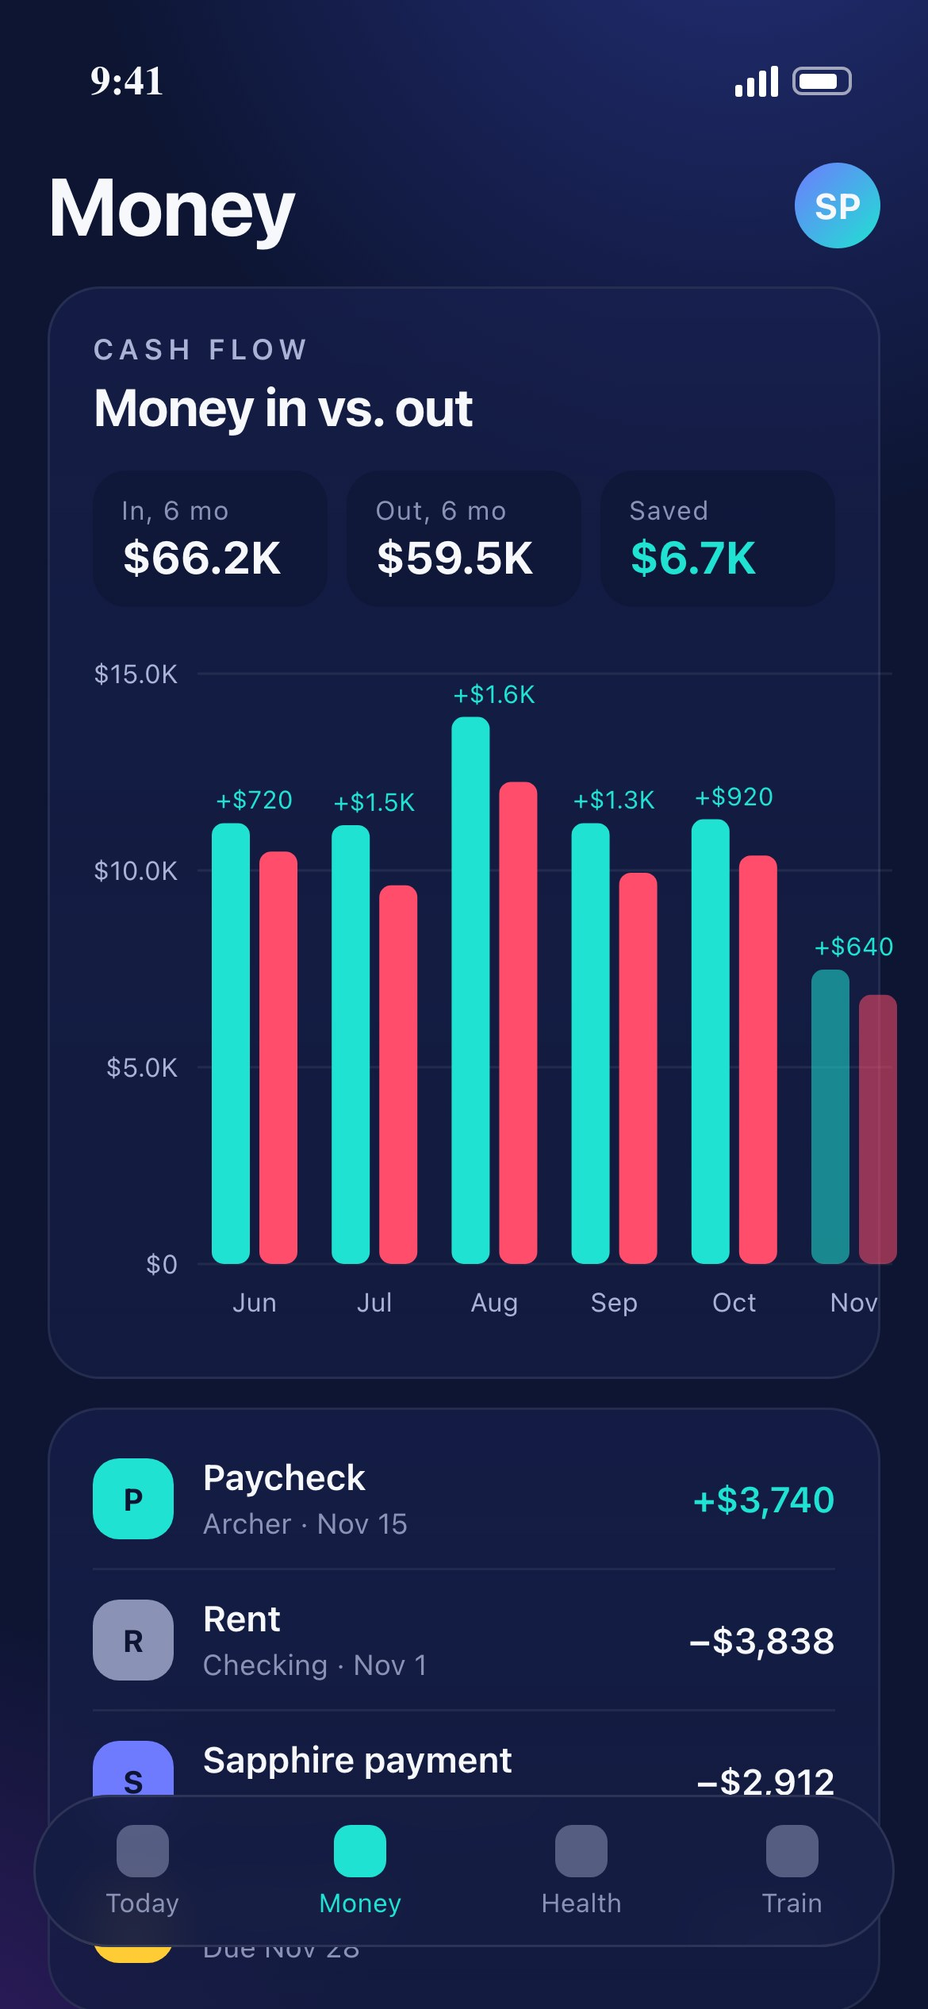
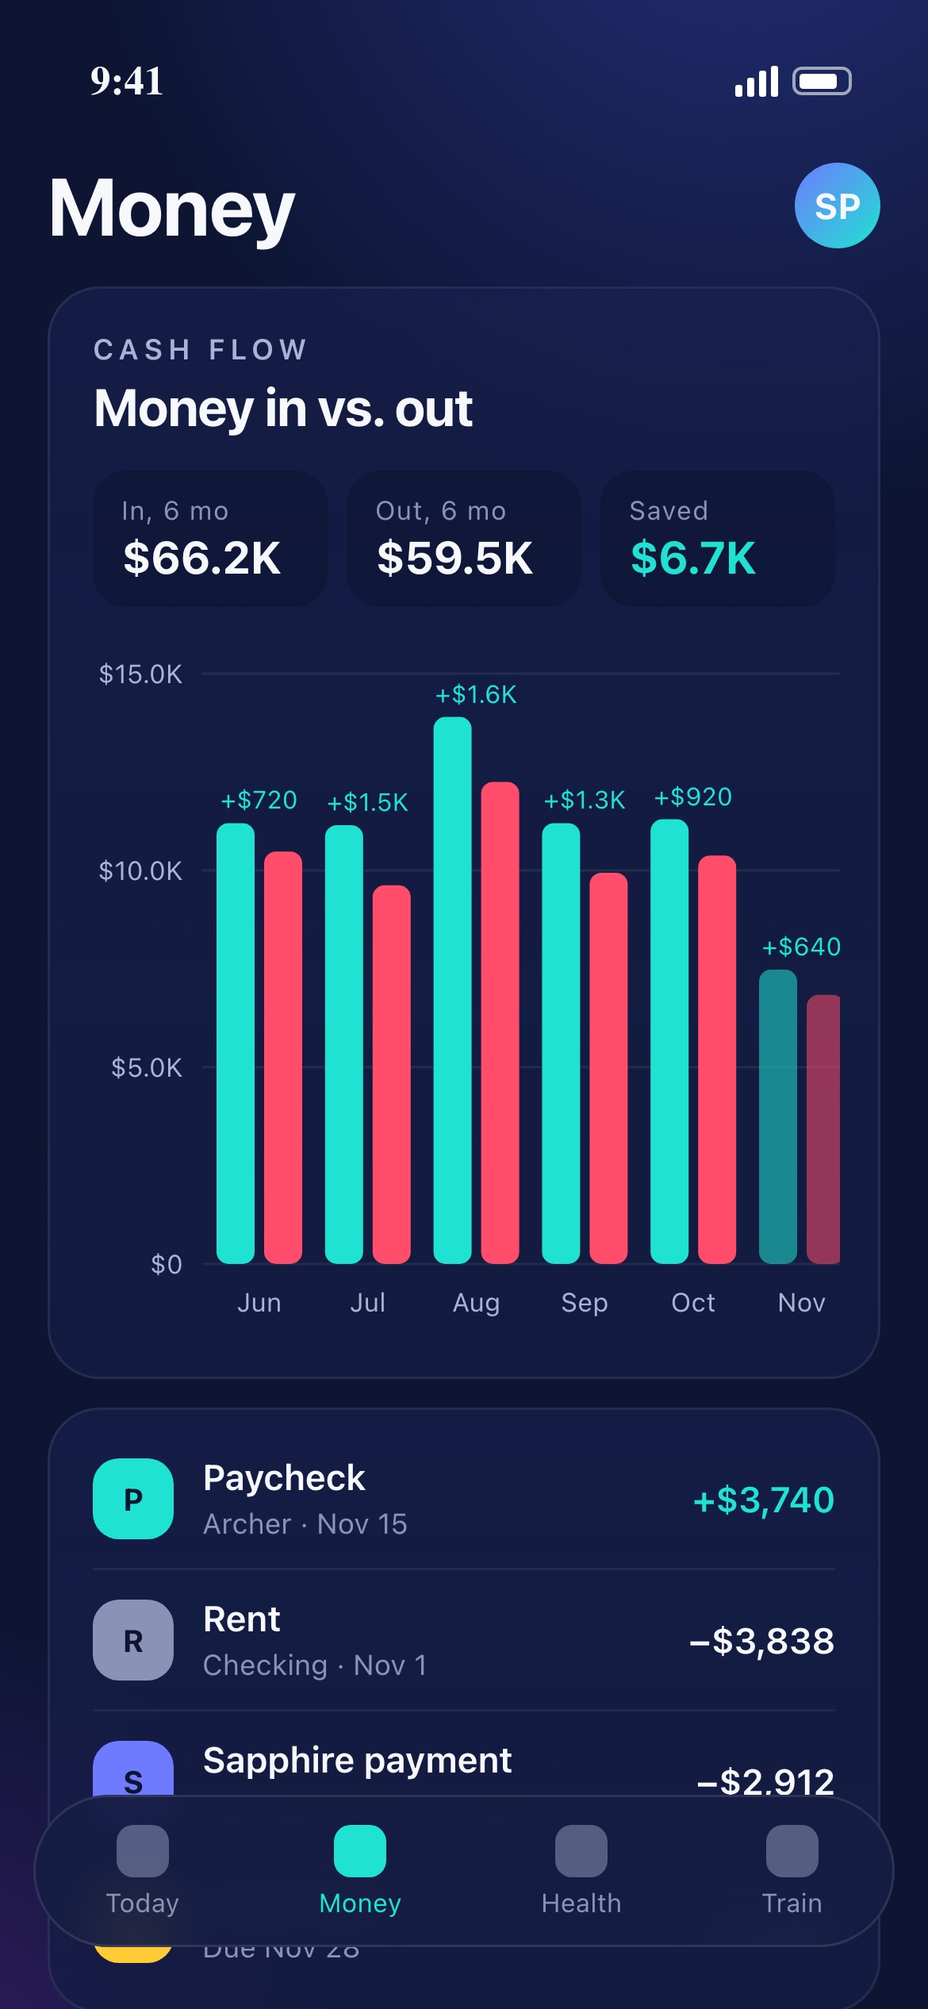
Archer bullets beside first two images, About statement, link preview, fixed app charts
- About: positioning line is now the bold statement; copy edits
- Archer: all bullets next to the hangar image; text-less rows removed
- Link preview: 1200x630 share.jpg (welding, app, guitar) via og:image
- App screens re-rendered: chart SVGs no longer overflow their cards
- Mock source kept at tools/mock/app.html

diff --git a/tools/mock/app.html b/tools/mock/app.html
@@ -1,0 +1,155 @@
+<!doctype html>
+<html><head><meta charset="utf-8">
+<style>
+:root{--bg:#0d1533;--card:#141c42;--card2:#182354;--line:#26306a;--tx:#f7f8fc;--mu:#8a93b5;--mu2:#aab3d5;--teal:#1fe2d2;--red:#ff4d6b;--lime:#9de647;--ind:#6e7bff;--org:#ff7817;--mag:#ff4dd2;--yel:#ffcc35;--vio:#9b6bff}
+*{box-sizing:border-box;margin:0;padding:0}
+html,body{width:390px;height:844px;overflow:hidden;position:relative;background:var(--bg);color:var(--tx);font-family:-apple-system,"SF Pro Display","SF Pro Text",system-ui,sans-serif;-webkit-font-smoothing:antialiased}
+body{background:radial-gradient(120% 60% at 80% -10%,#24307a 0,transparent 60%),radial-gradient(90% 50% at -10% 110%,#3a1d6b 0,transparent 60%),var(--bg)}
+.sb{height:54px;display:flex;align-items:center;justify-content:space-between;padding:14px 32px 0 38px;font:600 17px -apple-system}
+.sb i{display:inline-flex;gap:6px;align-items:center}
+.sb b{display:inline-block;width:25px;height:12px;border:1.5px solid #fff9;border-radius:4px;position:relative}
+.sb b:after{content:"";position:absolute;inset:1.5px;right:5px;background:#fff;border-radius:1.5px}
+.sig{display:inline-flex;gap:2px;align-items:flex-end}.sig s{width:3px;background:#fff;border-radius:1px}
+.pg{padding:6px 20px 0}
+.top{display:flex;justify-content:space-between;align-items:center;margin:6px 0 14px}
+.top h1{font-size:34px;font-weight:700;letter-spacing:-.5px}
+.av{width:36px;height:36px;border-radius:50%;background:linear-gradient(135deg,#6e7bff,#1fe2d2);display:grid;place-items:center;font-weight:700;font-size:15px}
+.card{background:linear-gradient(180deg,#18215099,#141c42cc);border:1px solid #ffffff14;border-radius:22px;padding:18px;margin-bottom:12px}
+.ey{font-size:12px;letter-spacing:2.2px;color:var(--mu2);font-weight:600;text-transform:uppercase}
+.h{font-size:22px;font-weight:700;margin-top:4px;letter-spacing:-.3px}
+.row{display:flex;justify-content:space-between;align-items:flex-start}
+.chip{font-size:13px;font-weight:700;padding:6px 11px;border-radius:999px}
+.chip.ok{background:#1fe2d222;color:var(--teal)}.chip.bad{background:#ff4d6b26;color:var(--red)}
+.stats{display:grid;grid-template-columns:repeat(3,1fr);gap:8px;margin-top:14px}
+.stat{background:#0d153399;border-radius:14px;padding:10px 12px}
+.stat p{font-size:11px;color:var(--mu);letter-spacing:.4px}.stat b{font-size:19px;display:block;margin-top:2px}
+svg text{font-family:-apple-system,system-ui;fill:var(--mu2)}
+.tabs{position:absolute;left:14px;right:14px;bottom:26px;height:64px;border-radius:32px;background:#141c42ee;border:1px solid #ffffff1a;display:flex;justify-content:space-around;align-items:center;backdrop-filter:blur(10px)}
+.tabs span{font-size:11px;color:var(--mu);display:flex;flex-direction:column;align-items:center;gap:4px}
+.tabs span:before{content:"";width:22px;height:22px;border-radius:7px;background:currentColor;opacity:.55}
+.tabs .on{color:var(--teal)}.tabs .on:before{opacity:1}
+.list .it{display:flex;align-items:center;gap:12px;padding:11px 0;border-top:1px solid #ffffff10}
+.list .it:first-child{border-top:0}
+.dot{width:34px;height:34px;border-radius:11px;display:grid;place-items:center;font-size:13px;font-weight:700;color:#0d1533}
+.it .nm{flex:1}.it .nm b{display:block;font-size:15px;font-weight:600}.it .nm small{font-size:12px;color:var(--mu)}
+.it .amt{font-weight:600;font-size:15px}
+.bar{height:6px;border-radius:3px;background:#ffffff14;overflow:hidden;margin-top:7px}.bar i{display:block;height:100%;border-radius:3px}
+.ex{background:#0d153399;border-radius:16px;padding:13px 14px;margin-bottom:9px;display:flex;gap:12px}
+.ex .n{color:var(--mu);font-weight:600;width:16px}.ex b{font-size:16px}.ex p{font-size:13px;color:var(--mu2);margin-top:3px}
+.ex em{font-size:12px;color:var(--mu);display:block;margin-top:3px}
+</style></head><body>
+<div class="sb"><span>9:41</span><i><span class="sig"><s style="height:5px"></s><s style="height:8px"></s><s style="height:11px"></s><s style="height:13px"></s></span><b></b></i></div>
+<div class="pg" id="pg"></div>
+<div class="tabs" id="tabs"><span>Today</span><span>Money</span><span>Health</span><span>Train</span></div>
+<script>
+const S=new URLSearchParams(location.search).get('s')||'pace';
+const pg=document.getElementById('pg');
+const tabOn={pace:1,flow:1,cash:1,worth:1,ready:2,train:3}[S];
+document.querySelectorAll('#tabs span')[tabOn].classList.add('on');
+const $=(h)=>pg.insertAdjacentHTML('beforeend',h);
+const k=(v)=>'$'+(v>=1000?(v/1000).toFixed(1)+'K':Math.round(v));
+const money=(v)=>'$'+Math.round(v).toLocaleString();
+
+if(S==='pace'){
+  $(`<div class="top"><h1>Money</h1><div class="av">SP</div></div>`);
+  const days=30,today=22,budget=9400,warn=8600,bills=3870;
+  // cumulative spend: rent+bills early, steady daily, a couple of spikes
+  const daily=[3420,85,140,60,210,95,40,330,120,75,160,45,90,520,110,65,140,85,230,60,95,135];
+  let c=0;const cum=daily.map(d=>c+=d);
+  const spent=cum[today-1];
+  const rate=(spent-cum[2])/(today-3), proj=spent+rate*(days-today);
+  $(`<div class="card"><div class="row"><div><p class="ey">Spend control</p><p class="h">November spend pace</p></div><span class="chip ok">On pace</span></div>
+  <div class="stats"><div class="stat"><p>Spent</p><b>${k(spent)}</b></div><div class="stat"><p>Month end</p><b>${k(proj)}</b></div><div class="stat"><p>Left / day</p><b>${money((budget-spent)/(days-today))}</b></div></div>
+  <svg id="ch" width="316" height="300" style="margin-top:12px;margin-left:-2px"></svg></div>`);
+  const W=316,H=300,L=42,R=14,T=14,B=26,ymax=11000;
+  const x=d=>L+(d-1)/(days-1)*(W-L-R), y=v=>T+(1-v/ymax)*(H-T-B);
+  let g='';
+  for(const v of [0,2750,5500,8250,11000]) g+=`<line x1="${L}" x2="${W-R}" y1="${y(v)}" y2="${y(v)}" stroke="#ffffff12"/><text x="${L-8}" y="${y(v)+4}" font-size="11" text-anchor="end">${k(v)}</text>`;
+  for(const d of [1,6,11,16,21,26,30]) g+=`<text x="${x(d)}" y="${H-6}" font-size="11" text-anchor="middle">${d}</text>`;
+  g+=`<rect x="${L}" y="${y(warn)}" width="${W-L-R}" height="${y(bills)-y(warn)}" fill="#1fe2d214"/>`;
+  g+=`<line x1="${L}" x2="${W-R}" y1="${y(budget)}" y2="${y(budget)}" stroke="#ff4d6b" stroke-width="2" stroke-dasharray="7 6"/><text x="${W-R}" y="${y(budget)-6}" font-size="11" text-anchor="end" style="fill:#ff4d6b">Budget</text>`;
+  g+=`<line x1="${L}" x2="${W-R}" y1="${y(warn)}" y2="${y(warn)}" stroke="#aab3d5" stroke-width="1.5"/><text x="${W-R}" y="${y(warn)+15}" font-size="11" text-anchor="end">Warn</text>`;
+  g+=`<line x1="${L}" x2="${W-R}" y1="${y(bills)}" y2="${y(bills)}" stroke="#ff4d6b99" stroke-width="1.5"/><text x="${W-R}" y="${y(bills)-6}" font-size="11" text-anchor="end">Bills</text>`;
+  // ideal pace
+  g+=`<line x1="${x(1)}" y1="${y(bills)}" x2="${x(days)}" y2="${y(budget)}" stroke="#ffffff30" stroke-width="1.5" stroke-dasharray="2 5"/>`;
+  const pts=cum.map((v,i)=>`${x(i+1)},${y(v)}`).join(' ');
+  g+=`<defs><linearGradient id="fa" x1="0" y1="0" x2="0" y2="1"><stop offset="0" stop-color="#1fe2d2" stop-opacity=".35"/><stop offset="1" stop-color="#1fe2d2" stop-opacity="0"/></linearGradient></defs>`;
+  g+=`<polygon points="${x(1)},${y(0)} ${pts} ${x(today)},${y(0)}" fill="url(#fa)"/>`;
+  g+=`<polyline points="${pts}" fill="none" stroke="#1fe2d2" stroke-width="3" stroke-linejoin="round"/>`;
+  g+=`<line x1="${x(today)}" y1="${y(spent)}" x2="${x(days)}" y2="${y(proj)}" stroke="#ffe7c2" stroke-width="2.5" stroke-dasharray="7 6"/>`;
+  g+=`<circle cx="${x(today)}" cy="${y(spent)}" r="7" fill="#1fe2d2" stroke="#0d1533" stroke-width="3"/>`;
+  g+=`<line x1="${x(today)}" x2="${x(today)}" y1="${y(spent)+8}" y2="${y(0)}" stroke="#1fe2d255" stroke-dasharray="2 3"/>`;
+  g+=`<text x="${x(today)-10}" y="${y(spent)-16}" font-size="12" text-anchor="end" style="fill:#f7f8fc;font-weight:700">Today ${k(spent)}</text>`;
+  document.getElementById('ch').innerHTML=g;
+  $(`<div class="card list" style="padding:8px 18px">
+   ${[['Dining','#ff7817',1180,1300],['Shopping','#6e7bff',960,1100],['Groceries','#9de647',610,750],['Travel','#1fe2d2',420,900]].map(([n,c,s,b])=>`<div class="it"><div class="dot" style="background:${c}">${n[0]}</div><div class="nm"><b>${n}</b><div class="bar"><i style="width:${s/b*100}%;background:${c}"></i></div></div><div class="amt">${money(s)}<small style="color:var(--mu);font-weight:400"> / ${k(b)}</small></div></div>`).join('')}</div>`);
+}
+
+if(S==='flow'){
+  $(`<div class="top"><h1>Money</h1><div class="av">SP</div></div>`);
+  $(`<div class="card"><p class="ey">Where it goes</p><p class="h">October money flow</p><p style="color:var(--mu);font-size:13px;margin-top:4px">4 accounts → 8 categories, combined</p><svg id="sk" width="316" height="470" style="margin:10px 0 0 -2px"></svg></div>`);
+  const src=[['Sapphire','#6e7bff',3150],['Amex Gold','#ffcc35',1480],['Checking','#1fe2d2',4520],['Apple Card','#f7f8fc',610]];
+  const dst=[['Rent & bills','#8a93b5',3870],['Dining','#ff7817',1240],['Shopping','#6e7bff',1060],['Travel','#1fe2d2',980],['Groceries','#9de647',720],['Fitness','#ff4dd2',420],['Car','#ffcc35',840],['Other','#9b6bff',630]];
+  // flows matrix (src x dst)
+  const F=[[0,820,640,980,0,180,260,270],[0,420,0,0,720,120,80,140],[3870,0,250,0,0,0,280,120],[0,0,170,0,0,120,220,100]];
+  const W=316,H=470,gap=8,x0=8,x1=W-112,nw=12;
+  const tot=dst.reduce((a,d)=>a+d[2],0), sc=(H-gap*7)/tot;
+  let ys=[],yy=0;src.forEach((s,i)=>{const h=F[i].reduce((a,b)=>a+b,0)*sc;ys.push([yy,h]);yy+=h+ (H-gap*7-tot*sc+gap*7- 0)/3*0 + gap*7/3;});
+  // recompute src spacing to fill height
+  const sTot=src.map((s,i)=>F[i].reduce((a,b)=>a+b,0)*sc); const sGap=(H-sTot.reduce((a,b)=>a+b,0))/(src.length-1);
+  yy=0; ys=sTot.map(h=>{const r=[yy,h];yy+=h+sGap;return r;});
+  let yd=[],y2=0;dst.forEach(d=>{const h=d[2]*sc;yd.push([y2,h]);y2+=h+gap;});
+  let g='',so=ys.map(r=>r[0]),dof=yd.map(r=>r[0]);
+  src.forEach((s,i)=>F[i].forEach((v,j)=>{if(!v)return;const h=v*sc,a=so[i],b=dof[j];so[i]+=h;dof[j]+=h;
+    const xa=x0+nw,xb=x1,m=(xa+xb)/2;
+    g+=`<path d="M${xa},${a} C${m},${a} ${m},${b} ${xb},${b} L${xb},${b+h} C${m},${b+h} ${m},${a+h} ${xa},${a+h}Z" fill="${dst[j][1]}" opacity=".38"/>`;}));
+  src.forEach((s,i)=>{g+=`<rect x="${x0}" y="${ys[i][0]}" width="${nw}" height="${ys[i][1]}" rx="4" fill="${s[1]}"/>`;});
+  dst.forEach((d,j)=>{g+=`<rect x="${x1}" y="${yd[j][0]}" width="${nw}" height="${yd[j][1]}" rx="4" fill="${d[1]}"/><text x="${x1+20}" y="${yd[j][0]+yd[j][1]/2-1}" font-size="13" style="fill:#f7f8fc;font-weight:600">${d[0]}</text><text x="${x1+20}" y="${yd[j][0]+yd[j][1]/2+14}" font-size="11.5">${money(d[2])}</text>`;});
+  src.forEach((s,i)=>{g+=`<text x="${x0+nw+8}" y="${ys[i][0]+16}" font-size="12.5" style="fill:#f7f8fc;font-weight:700;paint-order:stroke;stroke:#0d1533;stroke-width:4px">${s[0]}</text>`;});
+  document.getElementById('sk').innerHTML=g;
+}
+
+if(S==='cash'){
+  $(`<div class="top"><h1>Money</h1><div class="av">SP</div></div>`);
+  const m=['Jun','Jul','Aug','Sep','Oct','Nov'],inn=[11200,11150,13900,11200,11300,7480],out=[10480,9620,12250,9940,10380,6840];
+  $(`<div class="card"><p class="ey">Cash flow</p><p class="h">Money in vs. out</p>
+  <div class="stats"><div class="stat"><p>In, 6 mo</p><b>${k(inn.reduce((a,b)=>a+b))}</b></div><div class="stat"><p>Out, 6 mo</p><b>${k(out.reduce((a,b)=>a+b))}</b></div><div class="stat"><p>Saved</p><b style="color:var(--teal)">${k(inn.reduce((a,b)=>a+b)-out.reduce((a,b)=>a+b))}</b></div></div>
+  <svg id="cf" width="316" height="290" style="margin-top:12px;margin-left:-2px"></svg></div>`);
+  const W=316,H=290,L=48,B=26,T=16,ym=15000,bw=16,y=v=>T+(1-v/ym)*(H-T-B);let g='';
+  for(const v of [0,5000,10000,15000])g+=`<line x1="${L}" x2="${W}" y1="${y(v)}" y2="${y(v)}" stroke="#ffffff12"/><text x="${L-8}" y="${y(v)+4}" font-size="11" text-anchor="end">${k(v)}</text>`;
+  m.forEach((n,i)=>{const cx=L+24+i*(W-L-40)/5;g+=`<rect x="${cx-bw-2}" y="${y(inn[i])}" width="${bw}" height="${y(0)-y(inn[i])}" rx="5" fill="#1fe2d2" opacity="${i==5?.55:1}"/><rect x="${cx+2}" y="${y(out[i])}" width="${bw}" height="${y(0)-y(out[i])}" rx="5" fill="#ff4d6b" opacity="${i==5?.55:1}"/><text x="${cx}" y="${H-6}" font-size="11" text-anchor="middle">${n}</text><text x="${cx}" y="${y(Math.max(inn[i],out[i]))-6}" font-size="10.5" text-anchor="middle" style="fill:${inn[i]>out[i]?'#1fe2d2':'#ff4d6b'}">+${k(inn[i]-out[i])}</text>`;});
+  document.getElementById('cf').innerHTML=g;
+  $(`<div class="card list" style="padding:8px 18px">${[['Paycheck','Archer · Nov 15','#1fe2d2','+$3,740'],['Rent','Checking · Nov 1','#8a93b5','−$3,838'],['Sapphire payment','Due Nov 24 · autopay set','#6e7bff','−$2,912'],['Amex Gold','Due Nov 28','#ffcc35','−$1,406']].map(([a,b,c,d])=>`<div class="it"><div class="dot" style="background:${c}">${a[0]}</div><div class="nm"><b>${a}</b><small>${b}</small></div><div class="amt" style="color:${d[0]=='+'?'var(--teal)':'var(--tx)'}">${d}</div></div>`).join('')}</div>`);
+}
+
+if(S==='worth'){
+  $(`<div class="top"><h1>Wealth</h1><div class="av">SP</div></div>`);
+  const n=26,pts=[];let v=62000;for(let i=0;i<n;i++){v+=1900+Math.sin(i*1.3)*2600+(i==9?-5200:0);pts.push(v);}
+  $(`<div class="card"><p class="ey">Net worth</p><p class="h" style="font-size:34px">${money(pts[n-1])}</p><p style="color:var(--teal);font-weight:600;font-size:14px;margin-top:2px">▲ ${money(pts[n-1]-pts[n-14])} in 6 months</p><svg id="nw" width="316" height="210" style="margin:14px 0 0 -2px"></svg>
+  <div style="display:flex;gap:6px;margin-top:8px">${['1M','6M','1Y','All'].map((t,i)=>`<span class="chip" style="background:${i==2?'#1fe2d222':'#ffffff0d'};color:${i==2?'var(--teal)':'var(--mu2)'};flex:1;text-align:center">${t}</span>`).join('')}</div></div>`);
+  const W=316,H=210,mn=Math.min(...pts)-4000,mx=Math.max(...pts)+3000,x=i=>i/(n-1)*W,y=q=>8+(1-(q-mn)/(mx-mn))*(H-16);
+  const p=pts.map((q,i)=>`${x(i)},${y(q)}`).join(' ');
+  document.getElementById('nw').innerHTML=`<defs><linearGradient id="g" x1="0" x2="0" y1="0" y2="1"><stop offset="0" stop-color="#6e7bff" stop-opacity=".5"/><stop offset="1" stop-color="#6e7bff" stop-opacity="0"/></linearGradient><linearGradient id="s" x1="0" x2="1"><stop offset="0" stop-color="#6e7bff"/><stop offset="1" stop-color="#1fe2d2"/></linearGradient></defs><polygon points="0,${H} ${p} ${W},${H}" fill="url(#g)"/><polyline points="${p}" fill="none" stroke="url(#s)" stroke-width="3" stroke-linejoin="round"/><circle cx="${x(n-1)-4}" cy="${y(pts[n-1])}" r="6" fill="#1fe2d2" stroke="#0d1533" stroke-width="3"/>`;
+  $(`<div class="card list" style="padding:8px 18px">${[['Brokerage','Fidelity · 2 accounts','#6e7bff',0.38],['401(k)','Archer plan','#1fe2d2',0.24],['Savings','Wealthfront','#9de647',0.21],['Checking','Chase','#ffcc35',0.09],['RSUs','Vested','#ff4dd2',0.08]].map(([a,b,c,f])=>`<div class="it"><div class="dot" style="background:${c}">${a[0]}</div><div class="nm"><b>${a}</b><small>${b}</small></div><div class="amt">${money(pts[n-1]*f)}</div></div>`).join('')}</div>`);
+}
+
+if(S==='ready'){
+  $(`<div class="top"><h1>Health</h1><div class="av">SP</div></div>`);
+  const sc=84;const C=2*Math.PI*78;
+  $(`<div class="card" style="text-align:center"><p class="ey">Readiness · Sun Nov 22</p>
+  <svg width="200" height="200" style="margin:14px auto 4px;display:block"><defs><linearGradient id="r" x1="0" x2="1" y1="0" y2="1"><stop offset="0" stop-color="#1fe2d2"/><stop offset="1" stop-color="#9de647"/></linearGradient></defs>
+   <circle cx="100" cy="100" r="78" fill="none" stroke="#ffffff12" stroke-width="16"/>
+   <circle cx="100" cy="100" r="78" fill="none" stroke="url(#r)" stroke-width="16" stroke-linecap="round" stroke-dasharray="${C*sc/100} ${C}" transform="rotate(-90 100 100)"/>
+   <text x="100" y="108" text-anchor="middle" font-size="54" style="fill:#f7f8fc;font-weight:700">${sc}</text><text x="100" y="134" text-anchor="middle" font-size="13">Prime · go hard</text></svg>
+  <p style="color:var(--mu2);font-size:14px;line-height:1.4">Slept 7h 52m and HRV is above your 30-day baseline. Today is a good day for heavy lifts.</p></div>`);
+  $(`<div class="card list" style="padding:8px 18px">${[['Sleep','7h 52m · base 7h 10m','#6e7bff',40,.92],['HRV','68 ms · base 58','#1fe2d2',25,.88],['Resting HR','49 bpm · base 52','#ff4d6b',20,.85],['Fueling','2,640 kcal · 168 g protein','#9de647',10,.7],['Load','Acute : chronic 1.05','#ffcc35',5,.8]].map(([a,b,c,w,f])=>`<div class="it"><div class="dot" style="background:${c}">${w}</div><div class="nm"><b>${a}</b><small>${b}</small><div class="bar"><i style="width:${f*100}%;background:${c}"></i></div></div></div>`).join('')}</div>`);
+}
+
+if(S==='train'){
+  $(`<div class="top"><h1>Train</h1><div class="av">SP</div></div>`);
+  $(`<div class="card" style="background:linear-gradient(135deg,#1fe2d233,#6e7bff33);"><div class="row"><div><p class="ey">Today · readiness 84</p><p class="h" style="font-size:25px">Lower body strength</p></div><span class="chip ok">Prime</span></div>
+  <p style="color:var(--mu2);font-size:14px;margin-top:8px">55 min · 6:30 pm · after your last meeting</p>
+  <div class="stats"><div class="stat"><p>Run</p><b>2/2</b></div><div class="stat"><p>Strength</p><b>1/2</b></div><div class="stat"><p>Swim</p><b>0/1</b></div></div></div>`);
+  [['Back squat','4 × 5 · 245 lb','+10 lb from last week, HRV is up'],['Romanian deadlift','3 × 8 · 185 lb','Hinge, slow on the way down'],['Bulgarian split squat','3 × 10 each · 50 lb DBs','Front knee over toes'],['Walking lunge','2 × 20 steps · 40 lb','Finisher'],['Hip mobility flow','8 min','Cool down']].forEach(([a,b,c],i)=>$(`<div class="ex"><span class="n">${i+1}</span><div><b>${a}</b><p>${b}</p><em>${c}</em></div></div>`));
+}
+</script></body></html>

diff --git a/index.html b/index.html
@@ -6,7 +6,11 @@
 <meta name="description" content="Stephan Popescu, mechanical engineer. Dimensional engineering and product design on an air taxi, EVs, and hand tools, from concept to production.">
 <meta property="og:title" content="Stephan Popescu — Mechanical Engineer">
 <meta property="og:description" content="Dimensional engineering and product design on an air taxi, EVs, and hand tools, from concept to production.">
-<meta property="og:image" content="media/me/portrait.jpg">
+<meta property="og:image" content="https://stephanpopescu66.github.io/media/me/share.jpg">
+<meta property="og:image:width" content="1200">
+<meta property="og:image:height" content="630">
+<meta property="og:url" content="https://stephanpopescu66.github.io/">
+<meta name="twitter:card" content="summary_large_image">
 <link rel="preconnect" href="https://fonts.googleapis.com">
 <link rel="preconnect" href="https://fonts.gstatic.com" crossorigin="">
 <link href="https://fonts.googleapis.com/css2?family=Inter:wght@400;500;600;700&amp;display=swap" rel="stylesheet">
@@ -43,9 +47,9 @@
 <section class="hero" id="top" data-fixed="start">
   <div class="wrap">
     <div class="hero-copy">
-      <p class="eyebrow">Mechanical engineer · Builder · Team player</p>
+      <p class="eyebrow"></p>
       <h1>Stephan Popescu</h1>
-      <p class="hero-line">Dimensional engineering, system integration, product design, and quality, from concept to the production line.</p>
+      <p class="hero-line"><span style="font-size: 17px; font-weight: 600; letter-spacing: -0.34px;">Mechanical engineer · Builder · Team player</span></p>
     </div>
   </div>
 </section>
@@ -74,8 +78,8 @@
       </div>
     </div>
     <div class="about-text">
-    <p class="statement">Good engineering solves the problem with the fewest parts, the least money, and some creativity.</p>
-    <p class="body">I've worked on air tax's, 3 EV programs, patented a mechanism, and worked on the shop floor of jet engine plants.<br><br>I focus on robust design practices that work on paper and when thousands of real parts show up on the line. </p>
+    <p class="statement">System integration, product design, and manufacturing excellence. From concept to the production line.</p>
+    <p class="body">I've worked on air taxis, 3 EV programs, patented a mechanism, and worked on the shop floor of jet engine plants.</p>
     <ul class="facts">
       <li><span>Now</span>Senior Dimensional Engineer, Archer Aviation</li>
       <li><span>Before</span>Lucid Motors · Milwaukee Tool · Herman Miller · Subaru · GE Aviation</li>
@@ -110,24 +114,9 @@
         <figure class="st-media"><img src="media/archer/hangar.jpg" alt="Archer Midnight, front view in the hangar" loading="lazy"><figcaption>Midnight, front view <span class="credit">Image: Archer Aviation</span></figcaption></figure>
         <div class="st-copy">
           <div class="pts">
-            <p class="pt"><b>The job.</b> Hundreds of parts each arrive a little off. The aircraft still has to fit, seal, and look right.</p>
-          </div>
-        </div>
-      </div>
-      <div class="st-row">
-        <figure class="st-media"><img src="media/archer/takeoff.jpg" alt="Midnight during a conventional takeoff" loading="lazy"><figcaption>Midnight in flight test <span class="credit">Image: Archer Aviation</span></figcaption></figure>
-        <div class="st-copy">
-          <div class="pts">
-            <p class="pt"><b>Datum strategy.</b> How every part locates on the aircraft.</p>
-            <p class="pt"><b>Variation analysis.</b> 3D tolerance models in 3DCS.</p>
-          </div>
-        </div>
-      </div>
-      <div class="st-row">
-        <figure class="st-media"><img src="media/archer/flight.jpg" alt="Midnight flying above the clouds" loading="lazy"><figcaption>Midnight above the clouds <span class="credit">Image: Archer Aviation</span></figcaption></figure>
-        <div class="st-copy">
-          <div class="pts">
-            <p class="pt"><b>One source of truth.</b> A database I built that ties quality targets to datums, build sequence, variation results, and inspection plans.</p>
+            <p class="pt">Despite part &amp; process variation from build to build, the aircraft still has to fit together, seal, and look like a premium product.</p>
+            <p class="pt">I design robust datum schemes and validate them using 3DCS tolerance analysis to meet functional, safety, and perceived quality targets.</p>
+            <p class="pt">I built a database that ties quality targets to datums, build sequence, variation results, and inspection plans for cross functional ownership.</p>
           </div>
         </div>
       </div>
